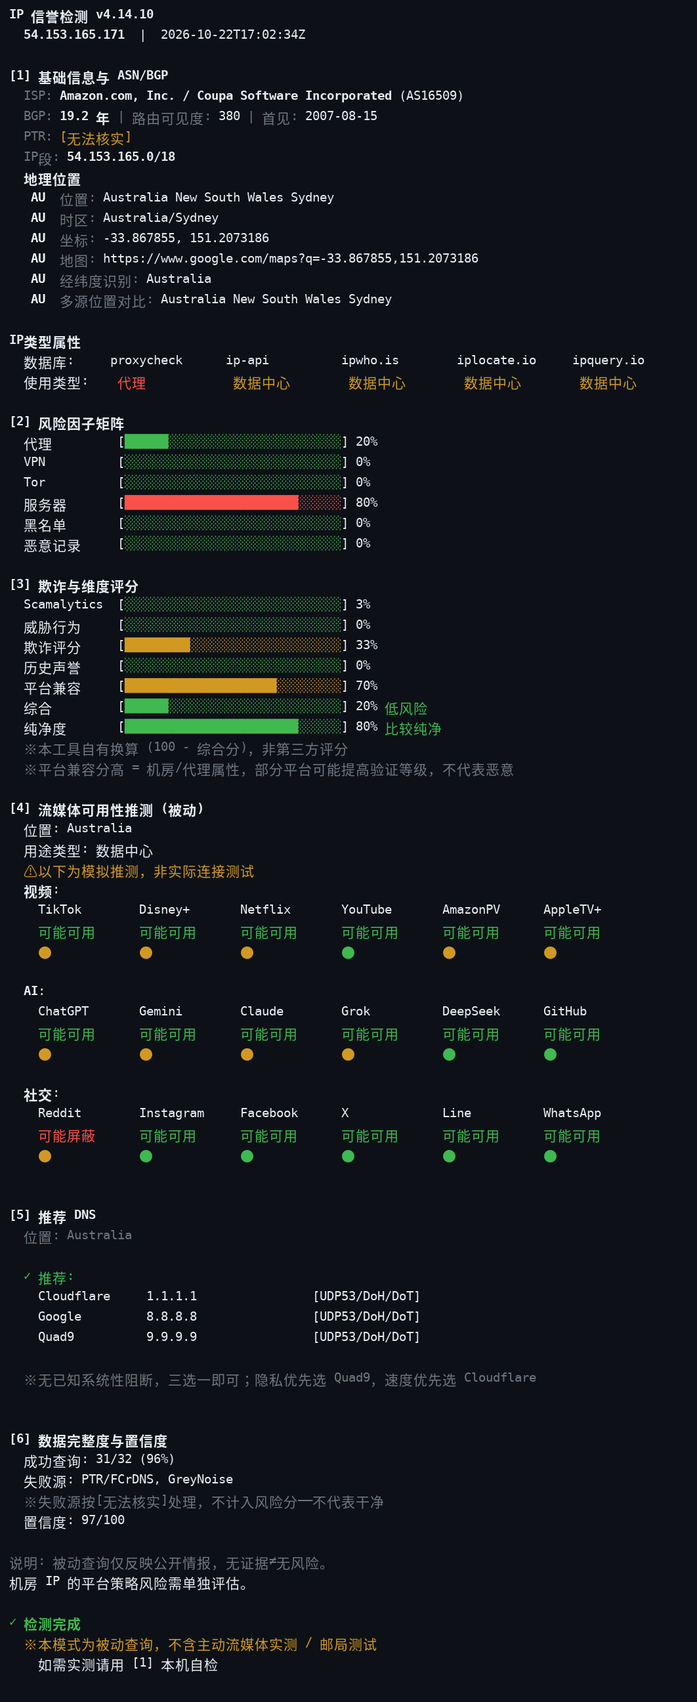
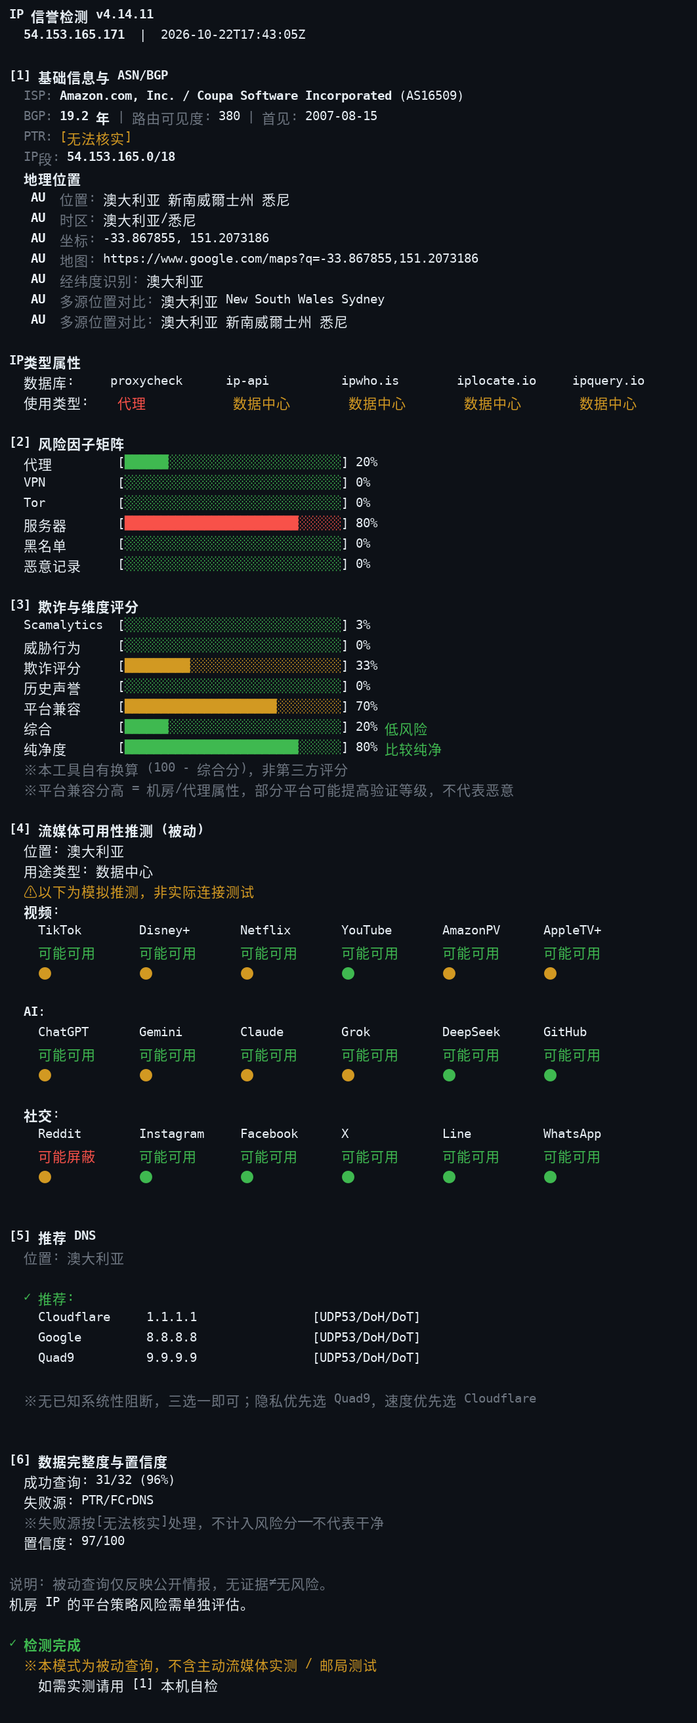
update

diff --git a/acheck.py b/acheck.py
@@ -1,6 +1,6 @@
 #!/usr/bin/env python3
 """
-IP 信誉检测 v4.14.10 — 全量修复与并发优化公开版 (零 API Key 依赖)
+IP 信誉检测 v4.14.11 — 全量修复与并发优化公开版 (零 API Key 依赖)
 
 被动模式: 仅凭 IP 地址做公开情报查询，不发起任何指向该 IP 的主动连接。
   适用: 评估尚未启用的候选 IP (如 AWS EIP)。
@@ -53,7 +53,7 @@ import http.client
 
 # stdio 编码初始化统一在 _init_console() 内进行 (仅主程序运行时), import 本文件不产生副作用。
 
-VERSION = "4.14.10"
+VERSION = "4.14.11"
 
 
 def _init_console():
@@ -2084,13 +2084,95 @@ class PTRCheck(Provider):
         return {"ok": True, "ptr": host, "fcrdns": fcrdns, "ts": now_iso()}
 
 
+
+# ---- 显示层本地化查表 (数据源无语言参数时, 国家名/时区名按界面语言呈现) ----
+_CC_EN = {'united states': 'US', 'united states of america': 'US', 'canada': 'CA', 'germany': 'DE', 'france': 'FR', 'japan': 'JP', 'south korea': 'KR', 'korea': 'KR', 'singapore': 'SG', 'india': 'IN', 'brazil': 'BR', 'russia': 'RU', 'united kingdom': 'GB', 'netherlands': 'NL', 'switzerland': 'CH', 'sweden': 'SE', 'norway': 'NO', 'finland': 'FI', 'denmark': 'DK', 'austria': 'AT', 'belgium': 'BE', 'ireland': 'IE', 'poland': 'PL', 'turkey': 'TR', 'mexico': 'MX', 'argentina': 'AR', 'chile': 'CL', 'colombia': 'CO', 'peru': 'PE', 'egypt': 'EG', 'nigeria': 'NG', 'kenya': 'KE', 'morocco': 'MA', 'israel': 'IL', 'united arab emirates': 'AE', 'saudi arabia': 'SA', 'qatar': 'QA', 'kuwait': 'KW', 'iran': 'IR', 'iraq': 'IQ', 'pakistan': 'PK', 'bangladesh': 'BD', 'thailand': 'TH', 'vietnam': 'VN', 'indonesia': 'ID', 'malaysia': 'MY', 'philippines': 'PH', 'taiwan': 'TW', 'hong kong': 'HK', 'china': 'CN', 'australia': 'AU', 'new zealand': 'NZ', 'south africa': 'ZA', 'greece': 'GR', 'portugal': 'PT', 'czechia': 'CZ', 'hungary': 'HU', 'romania': 'RO', 'ukraine': 'UA', 'italy': 'IT', 'spain': 'ES'}
+_COUNTRY_NAMES = {'zh': {'US': '美国', 'CA': '加拿大', 'DE': '德国', 'FR': '法国', 'JP': '日本', 'KR': '韩国', 'SG': '新加坡', 'IN': '印度', 'BR': '巴西', 'RU': '俄罗斯', 'GB': '英国', 'NL': '荷兰', 'CH': '瑞士', 'SE': '瑞典', 'NO': '挪威', 'FI': '芬兰', 'DK': '丹麦', 'AT': '奥地利', 'BE': '比利时', 'IE': '爱尔兰', 'PL': '波兰', 'TR': '土耳其', 'MX': '墨西哥', 'AR': '阿根廷', 'CL': '智利', 'CO': '哥伦比亚', 'PE': '秘鲁', 'EG': '埃及', 'NG': '尼日利亚', 'KE': '肯尼亚', 'MA': '摩洛哥', 'IL': '以色列', 'AE': '阿联酋', 'SA': '沙特阿拉伯', 'QA': '卡塔尔', 'KW': '科威特', 'IR': '伊朗', 'IQ': '伊拉克', 'PK': '巴基斯坦', 'BD': '孟加拉国', 'TH': '泰国', 'VN': '越南', 'ID': '印度尼西亚', 'MY': '马来西亚', 'PH': '菲律宾', 'TW': '台湾', 'HK': '香港', 'CN': '中国', 'AU': '澳大利亚', 'NZ': '新西兰', 'ZA': '南非', 'GR': '希腊', 'PT': '葡萄牙', 'CZ': '捷克', 'HU': '匈牙利', 'RO': '罗马尼亚', 'UA': '乌克兰', 'IT': '意大利', 'ES': '西班牙'}, 'zh-TW': {'US': '美國', 'CA': '加拿大', 'DE': '德國', 'FR': '法國', 'JP': '日本', 'KR': '韓國', 'SG': '新加坡', 'IN': '印度', 'BR': '巴西', 'RU': '俄羅斯', 'GB': '英國', 'NL': '荷蘭', 'CH': '瑞士', 'SE': '瑞典', 'NO': '挪威', 'FI': '芬蘭', 'DK': '丹麥', 'AT': '奧地利', 'BE': '比利時', 'IE': '愛爾蘭', 'PL': '波蘭', 'TR': '土耳其', 'MX': '墨西哥', 'AR': '阿根廷', 'CL': '智利', 'CO': '哥倫比亞', 'PE': '秘魯', 'EG': '埃及', 'NG': '奈及利亞', 'KE': '肯亞', 'MA': '摩洛哥', 'IL': '以色列', 'AE': '阿聯酋', 'SA': '沙烏地阿拉伯', 'QA': '卡達', 'KW': '科威特', 'IR': '伊朗', 'IQ': '伊拉克', 'PK': '巴基斯坦', 'BD': '孟加拉國', 'TH': '泰國', 'VN': '越南', 'ID': '印度尼西亞', 'MY': '馬來西亞', 'PH': '菲律賓', 'TW': '台灣', 'HK': '香港', 'CN': '中國', 'AU': '澳大利亞', 'NZ': '紐西蘭', 'ZA': '南非', 'GR': '希臘', 'PT': '葡萄牙', 'CZ': '捷克', 'HU': '匈牙利', 'RO': '羅馬尼亞', 'UA': '烏克蘭', 'IT': '義大利', 'ES': '西班牙'}, 'ja': {'US': 'アメリカ', 'CA': 'カナダ', 'DE': 'ドイツ', 'FR': 'フランス', 'JP': '日本', 'KR': '韓国', 'SG': 'シンガポール', 'IN': 'インド', 'BR': 'ブラジル', 'RU': 'ロシア', 'GB': 'イギリス', 'NL': 'オランダ', 'CH': 'スイス', 'SE': 'スウェーデン', 'NO': 'ノルウェー', 'FI': 'フィンランド', 'DK': 'デンマーク', 'AT': 'オーストリア', 'BE': 'ベルギー', 'IE': 'アイルランド', 'PL': 'ポーランド', 'TR': 'トルコ', 'MX': 'メキシコ', 'AR': 'アルゼンチン', 'CL': 'チリ', 'CO': 'コロンビア', 'PE': 'ペルー', 'EG': 'エジプト', 'NG': 'ナイジェリア', 'KE': 'ケニア', 'MA': 'モロッコ', 'IL': 'イスラエル', 'AE': 'アラブ首長国連邦', 'SA': 'サウジアラビア', 'QA': 'カタール', 'KW': 'クウェート', 'IR': 'イラン', 'IQ': 'イラク', 'PK': 'パキスタン', 'BD': 'バングラデシュ', 'TH': 'タイ', 'VN': 'ベトナム', 'ID': 'インドネシア', 'MY': 'マレーシア', 'PH': 'フィリピン', 'TW': '台湾', 'HK': '香港', 'CN': '中国', 'AU': 'オーストラリア', 'NZ': 'ニュージーランド', 'ZA': '南アフリカ', 'GR': 'ギリシャ', 'PT': 'ポルトガル', 'CZ': 'チェコ', 'HU': 'ハンガリー', 'RO': 'ルーマニア', 'UA': 'ウクライナ', 'IT': 'イタリア', 'ES': 'スペイン'}, 'ru': {'US': 'США', 'CA': 'Канада', 'DE': 'Германия', 'FR': 'Франция', 'JP': 'Япония', 'KR': 'Южная Корея', 'SG': 'Сингапур', 'IN': 'Индия', 'BR': 'Бразилия', 'RU': 'Россия', 'GB': 'Великобритания', 'NL': 'Нидерланды', 'CH': 'Швейцария', 'SE': 'Швеция', 'NO': 'Норвегия', 'FI': 'Финляндия', 'DK': 'Дания', 'AT': 'Австрия', 'BE': 'Бельгия', 'IE': 'Ирландия', 'PL': 'Польша', 'TR': 'Турция', 'MX': 'Мексика', 'AR': 'Аргентина', 'CL': 'Чили', 'CO': 'Колумбия', 'PE': 'Перу', 'EG': 'Египет', 'NG': 'Нигерия', 'KE': 'Кения', 'MA': 'Марокко', 'IL': 'Израиль', 'AE': 'ОАЭ', 'SA': 'Саудовская Аравия', 'QA': 'Катар', 'KW': 'Кувейт', 'IR': 'Иран', 'IQ': 'Ирак', 'PK': 'Пакистан', 'BD': 'Бангладеш', 'TH': 'Таиланд', 'VN': 'Вьетнам', 'ID': 'Индонезия', 'MY': 'Малайзия', 'PH': 'Филиппины', 'TW': 'Тайвань', 'HK': 'Гонконг', 'CN': 'Китай', 'AU': 'Австралия', 'NZ': 'Новая Зеландия', 'ZA': 'ЮАР', 'GR': 'Греция', 'PT': 'Португалия', 'CZ': 'Чехия', 'HU': 'Венгрия', 'RO': 'Румыния', 'UA': 'Украина', 'IT': 'Италия', 'ES': 'Испания'}, 'fa': {'US': 'آمریکا', 'CA': 'کانادا', 'DE': 'آلمان', 'FR': 'فرانسه', 'JP': 'ژاپن', 'KR': 'کره جنوبی', 'SG': 'سنگاپور', 'IN': 'هند', 'BR': 'برزیل', 'RU': 'روسیه', 'GB': 'بریتانیا', 'NL': 'هلند', 'CH': 'سوئیس', 'SE': 'سوئد', 'NO': 'نروژ', 'FI': 'فنلاند', 'DK': 'دانمارک', 'AT': 'اتریش', 'BE': 'بلژیک', 'IE': 'ایرلند', 'PL': 'لهستان', 'TR': 'ترکیه', 'MX': 'مکزیک', 'AR': 'آرژانتین', 'CL': 'شیلی', 'CO': 'کلمبیا', 'PE': 'پرو', 'EG': 'مصر', 'NG': 'نیجریه', 'KE': 'کنیا', 'MA': 'مراکش', 'IL': 'اسرائیل', 'AE': 'امارات', 'SA': 'عربستان سعودی', 'QA': 'قطر', 'KW': 'کویت', 'IR': 'ایران', 'IQ': 'عراق', 'PK': 'پاکستان', 'BD': 'بنگلادش', 'TH': 'تایلند', 'VN': 'ویتنام', 'ID': 'اندونزی', 'MY': 'مالزی', 'PH': 'فیلیپین', 'TW': 'تایوان', 'HK': 'هنگ\u200cکنگ', 'CN': 'چین', 'AU': 'استرالیا', 'NZ': 'نیوزیلند', 'ZA': 'آفریقای جنوبی', 'GR': 'یونان', 'PT': 'پرتغال', 'CZ': 'چک', 'HU': 'مجارستان', 'RO': 'رومانی', 'UA': 'اوکراین', 'IT': 'ایتالیا', 'ES': 'اسپانیا'}}
+_TZ_CONT = {'zh': {'Africa': '非洲', 'America': '美洲', 'Antarctica': '南极洲', 'Asia': '亚洲', 'Atlantic': '大西洋', 'Australia': '澳大利亚', 'Europe': '欧洲', 'Indian': '印度洋', 'Pacific': '太平洋'}, 'zh-TW': {'Africa': '非洲', 'America': '美洲', 'Antarctica': '南極洲', 'Asia': '亞洲', 'Atlantic': '大西洋', 'Australia': '澳大利亞', 'Europe': '歐洲', 'Indian': '印度洋', 'Pacific': '太平洋'}, 'ja': {'Africa': 'アフリカ', 'America': 'アメリカ', 'Antarctica': '南極', 'Asia': 'アジア', 'Atlantic': '大西洋', 'Australia': 'オーストラリア', 'Europe': 'ヨーロッパ', 'Indian': 'インド洋', 'Pacific': '太平洋'}, 'ru': {'Africa': 'Африка', 'America': 'Америка', 'Antarctica': 'Антарктида', 'Asia': 'Азия', 'Atlantic': 'Атлантика', 'Australia': 'Австралия', 'Europe': 'Европа', 'Indian': 'Индийский океан', 'Pacific': 'Тихий океан'}, 'fa': {'Africa': 'آفریقا', 'America': 'آمریکا', 'Antarctica': 'جنوبگان', 'Asia': 'آسیا', 'Atlantic': 'اقیانوس اطلس', 'Australia': 'استرالیا', 'Europe': 'اروپا', 'Indian': 'اقیانوس هند', 'Pacific': 'اقیانوس آرام'}}
+_TZ_CITY = {'zh': {'Cairo': '开罗', 'Johannesburg': '约翰内斯堡', 'Lagos': '拉各斯', 'Anchorage': '安克雷奇', 'Bogota': '波哥大', 'Chicago': '芝加哥', 'Denver': '丹佛', 'Halifax': '哈利法克斯', 'Lima': '利马', 'Los_Angeles': '洛杉矶', 'Mexico_City': '墨西哥城', 'New_York': '纽约', 'Phoenix': '菲尼克斯', 'Santiago': '圣地亚哥', 'Sao_Paulo': '圣保罗', 'St_Johns': '圣约翰斯', 'Toronto': '多伦多', 'Vancouver': '温哥华', 'Winnipeg': '温尼伯', 'Almaty': '阿拉木图', 'Bangkok': '曼谷', 'Colombo': '科伦坡', 'Dhaka': '达卡', 'Dubai': '迪拜', 'Ho_Chi_Minh': '胡志明市', 'Hong_Kong': '香港', 'Jakarta': '雅加达', 'Jerusalem': '耶路撒冷', 'Kabul': '喀布尔', 'Karachi': '卡拉奇', 'Kathmandu': '加德满都', 'Kolkata': '加尔各答', 'Kuala_Lumpur': '吉隆坡', 'Manila': '马尼拉', 'Riyadh': '利雅得', 'Seoul': '首尔', 'Shanghai': '上海', 'Singapore': '新加坡', 'Taipei': '台北', 'Tehran': '德黑兰', 'Tokyo': '东京', 'Reykjavik': '雷克雅未克', 'Adelaide': '阿德莱德', 'Brisbane': '布里斯班', 'Melbourne': '墨尔本', 'Perth': '珀斯', 'Sydney': '悉尼', 'Amsterdam': '阿姆斯特丹', 'Berlin': '柏林', 'Istanbul': '伊斯坦布尔', 'London': '伦敦', 'Madrid': '马德里', 'Moscow': '莫斯科', 'Paris': '巴黎', 'Rome': '罗马', 'Stockholm': '斯德哥尔摩', 'Vienna': '维也纳', 'Warsaw': '华沙', 'Auckland': '奥克兰', 'Chatham': '查塔姆', 'Buenos_Aires': '布宜诺斯艾利斯', 'Ulaanbaatar': '乌兰巴托', 'Honolulu': '檀香山', 'Zurich': '苏黎世', 'Lisbon': '里斯本', 'Dublin': '都柏林', 'Helsinki': '赫尔辛基', 'Oslo': '奥斯陆', 'Copenhagen': '哥本哈根', 'Prague': '布拉格', 'Budapest': '布达佩斯', 'Athens': '雅典', 'Kyiv': '基辅'}, 'zh-TW': {'Cairo': '開羅', 'Johannesburg': '約翰內斯堡', 'Lagos': '拉各斯', 'Anchorage': '安克雷奇', 'Bogota': '波哥大', 'Chicago': '芝加哥', 'Denver': '丹佛', 'Halifax': '哈利法克斯', 'Lima': '利馬', 'Los_Angeles': '洛杉磯', 'Mexico_City': '墨西哥城', 'New_York': '紐約', 'Phoenix': '菲尼克斯', 'Santiago': '聖地亞哥', 'Sao_Paulo': '聖保羅', 'St_Johns': '聖約翰斯', 'Toronto': '多倫多', 'Vancouver': '溫哥華', 'Winnipeg': '溫尼伯', 'Almaty': '阿拉木圖', 'Bangkok': '曼谷', 'Colombo': '科倫坡', 'Dhaka': '達卡', 'Dubai': '杜拜', 'Ho_Chi_Minh': '胡志明市', 'Hong_Kong': '香港', 'Jakarta': '雅加達', 'Jerusalem': '耶路撒冷', 'Kabul': '喀布爾', 'Karachi': '卡拉奇', 'Kathmandu': '加德滿都', 'Kolkata': '加爾各答', 'Kuala_Lumpur': '吉隆坡', 'Manila': '馬尼拉', 'Riyadh': '利雅得', 'Seoul': '首爾', 'Shanghai': '上海', 'Singapore': '新加坡', 'Taipei': '台北', 'Tehran': '德黑蘭', 'Tokyo': '東京', 'Reykjavik': '雷克雅未克', 'Adelaide': '阿德萊德', 'Brisbane': '布里斯班', 'Melbourne': '墨爾本', 'Perth': '珀斯', 'Sydney': '悉尼', 'Amsterdam': '阿姆斯特丹', 'Berlin': '柏林', 'Istanbul': '伊斯坦布爾', 'London': '倫敦', 'Madrid': '馬德里', 'Moscow': '莫斯科', 'Paris': '巴黎', 'Rome': '羅馬', 'Stockholm': '斯德哥爾摩', 'Vienna': '維也納', 'Warsaw': '華沙', 'Auckland': '奧克蘭', 'Chatham': '查塔姆', 'Buenos_Aires': '布宜諾斯艾利斯', 'Ulaanbaatar': '烏蘭巴托', 'Honolulu': '檀香山', 'Zurich': '蘇黎世', 'Lisbon': '里斯本', 'Dublin': '都柏林', 'Helsinki': '赫爾辛基', 'Oslo': '奧斯陸', 'Copenhagen': '哥本哈根', 'Prague': '布拉格', 'Budapest': '布達佩斯', 'Athens': '雅典', 'Kyiv': '基輔'}, 'ja': {'Cairo': 'カイロ', 'Johannesburg': 'ヨハネスブルグ', 'Lagos': 'ラゴス', 'Anchorage': 'アンカレッジ', 'Bogota': 'ボゴタ', 'Chicago': 'シカゴ', 'Denver': 'デンバー', 'Halifax': 'ハリファックス', 'Lima': 'リマ', 'Los_Angeles': 'ロサンゼルス', 'Mexico_City': 'メキシコシティ', 'New_York': 'ニューヨーク', 'Phoenix': 'フェニックス', 'Santiago': 'サンティアゴ', 'Sao_Paulo': 'サンパウロ', 'St_Johns': 'セントジョンズ', 'Toronto': 'トロント', 'Vancouver': 'バンクーバー', 'Winnipeg': 'ウィニペグ', 'Almaty': 'アルマトイ', 'Bangkok': 'バンコク', 'Colombo': 'コロンボ', 'Dhaka': 'ダッカ', 'Dubai': 'ドバイ', 'Ho_Chi_Minh': 'ホーチミン', 'Hong_Kong': '香港', 'Jakarta': 'ジャカルタ', 'Jerusalem': 'エルサレム', 'Kabul': 'カブール', 'Karachi': 'カラチ', 'Kathmandu': 'カトマンズ', 'Kolkata': 'コルカタ', 'Kuala_Lumpur': 'クアラルンプール', 'Manila': 'マニラ', 'Riyadh': 'リヤド', 'Seoul': 'ソウル', 'Shanghai': '上海', 'Singapore': 'シンガポール', 'Taipei': '台北', 'Tehran': 'テヘラン', 'Tokyo': '東京', 'Reykjavik': 'レイキャビク', 'Adelaide': 'アデレード', 'Brisbane': 'ブリスベン', 'Melbourne': 'メルボルン', 'Perth': 'パース', 'Sydney': 'シドニー', 'Amsterdam': 'アムステルダム', 'Berlin': 'ベルリン', 'Istanbul': 'イスタンブール', 'London': 'ロンドン', 'Madrid': 'マドリード', 'Moscow': 'モスクワ', 'Paris': 'パリ', 'Rome': 'ローマ', 'Stockholm': 'ストックホルム', 'Vienna': 'ウィーン', 'Warsaw': 'ワルシャワ', 'Auckland': 'オークランド', 'Chatham': 'チャタム', 'Buenos_Aires': 'ブエノスアイレス', 'Ulaanbaatar': 'ウランバートル', 'Honolulu': 'ホノルル', 'Zurich': 'チューリッヒ', 'Lisbon': 'リスボン', 'Dublin': 'ダブリン', 'Helsinki': 'ヘルシンキ', 'Oslo': 'オスロ', 'Copenhagen': 'コペンハーゲン', 'Prague': 'プラハ', 'Budapest': 'ブダペスト', 'Athens': 'アテネ', 'Kyiv': 'キーウ'}, 'ru': {'Cairo': 'Каир', 'Johannesburg': 'Йоханнесбург', 'Lagos': 'Лагос', 'Anchorage': 'Анкоридж', 'Bogota': 'Богота', 'Chicago': 'Чикаго', 'Denver': 'Денвер', 'Halifax': 'Галифакс', 'Lima': 'Лима', 'Los_Angeles': 'Лос-Анджелес', 'Mexico_City': 'Мехико', 'New_York': 'Нью-Йорк', 'Phoenix': 'Финикс', 'Santiago': 'Сантьяго', 'Sao_Paulo': 'Сан-Паулу', 'St_Johns': 'Сент-Джонс', 'Toronto': 'Торонто', 'Vancouver': 'Ванкувер', 'Winnipeg': 'Виннипег', 'Almaty': 'Алматы', 'Bangkok': 'Бангкок', 'Colombo': 'Коломбо', 'Dhaka': 'Дакка', 'Dubai': 'Дубай', 'Ho_Chi_Minh': 'Хошимин', 'Hong_Kong': 'Гонконг', 'Jakarta': 'Джакарта', 'Jerusalem': 'Иерусалим', 'Kabul': 'Кабул', 'Karachi': 'Карачи', 'Kathmandu': 'Катманду', 'Kolkata': 'Калькутта', 'Kuala_Lumpur': 'Куала-Лумпур', 'Manila': 'Манила', 'Riyadh': 'Эр-Рияд', 'Seoul': 'Сеул', 'Shanghai': 'Шанхай', 'Singapore': 'Сингапур', 'Taipei': 'Тайбэй', 'Tehran': 'Тегеран', 'Tokyo': 'Токио', 'Reykjavik': 'Рейкьявик', 'Adelaide': 'Аделаида', 'Brisbane': 'Брисбен', 'Melbourne': 'Мельбурн', 'Perth': 'Перт', 'Sydney': 'Сидней', 'Amsterdam': 'Амстердам', 'Berlin': 'Берлин', 'Istanbul': 'Стамбул', 'London': 'Лондон', 'Madrid': 'Мадрид', 'Moscow': 'Москва', 'Paris': 'Париж', 'Rome': 'Рим', 'Stockholm': 'Стокгольм', 'Vienna': 'Вена', 'Warsaw': 'Варшава', 'Auckland': 'Окленд', 'Chatham': 'Чатем', 'Buenos_Aires': 'Буэнос-Айрес', 'Ulaanbaatar': 'Улан-Батор', 'Honolulu': 'Гонолулу', 'Zurich': 'Цюрих', 'Lisbon': 'Лиссабон', 'Dublin': 'Дублин', 'Helsinki': 'Хельсинки', 'Oslo': 'Осло', 'Copenhagen': 'Копенгаген', 'Prague': 'Прага', 'Budapest': 'Будапешт', 'Athens': 'Афины', 'Kyiv': 'Киев'}, 'fa': {'Cairo': 'قاهره', 'Johannesburg': 'ژوهانسبورگ', 'Lagos': 'لاگوس', 'Anchorage': 'انکوریج', 'Bogota': 'بوگوتا', 'Chicago': 'شیکاگو', 'Denver': 'دنور', 'Halifax': 'هالیفاکس', 'Lima': 'لیما', 'Los_Angeles': 'لس\u200cآنجلس', 'Mexico_City': 'مکزیکوسیتی', 'New_York': 'نیویورک', 'Phoenix': 'فینیکس', 'Santiago': 'سانتیاگو', 'Sao_Paulo': 'سائوپائولو', 'St_Johns': 'سنت جانز', 'Toronto': 'تورنتو', 'Vancouver': 'ونکوور', 'Winnipeg': 'وینیپگ', 'Almaty': 'آلماتی', 'Bangkok': 'بانکوک', 'Colombo': 'کلمبو', 'Dhaka': 'داکا', 'Dubai': 'دبی', 'Ho_Chi_Minh': 'هوشی\u200cمین', 'Hong_Kong': 'هنگ\u200cکنگ', 'Jakarta': 'جاکارتا', 'Jerusalem': 'اورشلیم', 'Kabul': 'کابل', 'Karachi': 'کراچی', 'Kathmandu': 'کاتماندو', 'Kolkata': 'کلکته', 'Kuala_Lumpur': 'کوالالامپور', 'Manila': 'مانیل', 'Riyadh': 'ریاض', 'Seoul': 'سئول', 'Shanghai': 'شانگهای', 'Singapore': 'سنگاپور', 'Taipei': 'تایپه', 'Tehran': 'تهران', 'Tokyo': 'توکیو', 'Reykjavik': 'ریکیاویک', 'Adelaide': 'آدلاید', 'Brisbane': 'بریزبن', 'Melbourne': 'ملبورن', 'Perth': 'پرت', 'Sydney': 'سیدنی', 'Amsterdam': 'آمستردام', 'Berlin': 'برلین', 'Istanbul': 'استانبول', 'London': 'لندن', 'Madrid': 'مادرید', 'Moscow': 'مسکو', 'Paris': 'پاریس', 'Rome': 'رم', 'Stockholm': 'استکهلم', 'Vienna': 'وین', 'Warsaw': 'ورشو', 'Auckland': 'اوکلند', 'Chatham': 'چتم', 'Buenos_Aires': 'بوئنوس آیرس', 'Ulaanbaatar': 'اولان\u200cباتور', 'Honolulu': 'هونولولو', 'Zurich': 'زوریخ', 'Lisbon': 'لیسبون', 'Dublin': 'دوبلین', 'Helsinki': 'هلسینکی', 'Oslo': 'اسلو', 'Copenhagen': 'کپنهاگ', 'Prague': 'پراگ', 'Budapest': 'بوداپست', 'Athens': 'آتن', 'Kyiv': 'کی\u200cیف'}}
+_UTC_NAMES = {"zh": "协调世界时", "zh-TW": "協調世界時", "ja": "協定世界時",
+              "ru": "Всемирное время (UTC)", "fa": "ساعت هماهنگ جهانی"}
+
+
+_ZH_NAME2CODE = {v: k for k, v in _COUNTRY_NAMES["zh"].items()}
+
+
+def _loc_country_name(text):
+    """国家名/代码 -> 界面语言国家名 (en 界面或查不到时原样)。"""
+    if LANG == "en" or not text:
+        return text
+    t = str(text).strip()
+    if LANG == "zh-TW" and t in _ZH_NAME2CODE:
+        return _COUNTRY_NAMES["zh-TW"][_ZH_NAME2CODE[t]]
+    code = None
+    if len(t) == 2 and t.isalpha():
+        code = t.upper()
+    else:
+        code = _CC_EN.get(t.lower())
+    if code == "UK":
+        code = "GB"
+    if code:
+        return _COUNTRY_NAMES.get(LANG, {}).get(code, text)
+    return text
+
+
+def _loc_display(disp):
+    """多源对比行: 把开头的国家 (代码或英文名) 换成本地化国家名, 其余原样。"""
+    if LANG == "en" or not disp:
+        return disp
+    m = re.match(r"^([A-Z]{2})\s+(.*)$", disp)
+    if m:
+        code = "GB" if m.group(1) == "UK" else m.group(1)
+        loc = _COUNTRY_NAMES.get(LANG, {}).get(code)
+        if loc:
+            return f"{loc} {m.group(2)}"
+    if LANG == "zh-TW":
+        for zh_name, code in sorted(_ZH_NAME2CODE.items(), key=lambda kv: -len(kv[0])):
+            if disp.startswith(zh_name):
+                return _COUNTRY_NAMES["zh-TW"][code] + disp[len(zh_name):]
+    low = disp.lower()
+    for name, code in sorted(_CC_EN.items(), key=lambda kv: -len(kv[0])):
+        if low.startswith(name + " ") or low == name:
+            loc = _COUNTRY_NAMES.get(LANG, {}).get(code)
+            if loc:
+                return loc + disp[len(name):]
+    return disp
+
+
+def _loc_tz(tz):
+    """IANA 时区名 -> 界面语言 (洲/城查表; 未收录时原样)。"""
+    if LANG == "en" or not tz:
+        return tz
+    if tz == "UTC":
+        return _UTC_NAMES.get(LANG, tz)
+    parts = str(tz).split("/")
+    cont = _TZ_CONT.get(LANG, {}).get(parts[0])
+    city = _TZ_CITY.get(LANG, {}).get(parts[-1])
+    if cont and city:
+        return f"{cont}/{city}"
+    return tz
+
+
+def _ipwho_lang():
+    """ipwho.is 本地化参数: 其数据源无 zh-TW/fa, zh-TW 回退 zh-CN, fa 不传 (英文)。"""
+    return {"zh": "zh-CN", "zh-TW": "zh-CN", "ja": "ja", "ru": "ru"}.get(LANG)
+
+
+def _nominatim_lang():
+    """Nominatim accept-language (支持全部界面语言)。"""
+    return {"zh": "zh-CN", "zh-TW": "zh-TW", "ja": "ja", "ru": "ru",
+            "fa": "fa", "en": "en"}.get(LANG, "en")
+
+
 @register
 class IPWhoIs(Provider):
     key = "ipwhois"
     name = "ipwho.is"
 
     def check(self, ip):
-        ok, raw = http_get(f"https://ipwho.is/{ip}", use_cache=False)
+        _l = _ipwho_lang()
+        ok, raw = http_get(f"https://ipwho.is/{ip}" + (f"?lang={_l}" if _l else ""),
+                           use_cache=False)
         if not ok:
             return {"ok": False, "err": raw}
         try:
@@ -2137,7 +2219,7 @@ class IPInfo(Provider):
 
     def check(self, ip):
         ok, raw = http_get(f"https://ipinfo.io/{ip}/json",
-                           headers={"User-Agent": "A-Check/4.14.10 (+https://github.com/alariclin/A-Check)"},
+                           headers={"User-Agent": "A-Check/4.14.11 (+https://github.com/alariclin/A-Check)"},
                            use_cache=False)
         if not ok:
             return {"ok": False, "err": raw}
@@ -3002,7 +3084,7 @@ def _build_unified_profile(s):
 
 SCORING_RULES = {
     "zh": """
-评分规则 (v4.14.10 免 Key 公开版):
+评分规则 (v4.14.11 免 Key 公开版):
   [威胁行为 0-100] 实际恶意行为证据
     StopForumSpam 垃圾举报命中 (每次+3, 上限25)
     SANS ISC 蜜罐攻击记录 (5 + count//5, 上限25)
@@ -3034,7 +3116,7 @@ SCORING_RULES = {
     主动模式双栈对照: IPv6 出口/泄漏判定/流媒体与测速分栈实测
 """,
     "zh-TW": """
-評分規則 (v4.14.10 免 Key 公開版):
+評分規則 (v4.14.11 免 Key 公開版):
   [威脅行為 0-100] 實際惡意行為證據
     StopForumSpam 垃圾舉報命中 (每次+3, 上限25)
     SANS ISC 蜜罐攻擊記錄 (5 + count//5, 上限25)
@@ -3066,7 +3148,7 @@ SCORING_RULES = {
     主動模式雙棧對照: IPv6 出口/洩漏判定/串流與測速分棧實測
 """,
     "en": """
-Scoring rules (v4.14.10 Keyless Public Edition):
+Scoring rules (v4.14.11 Keyless Public Edition):
   [Threat 0-100] Evidence of malicious behavior
     StopForumSpam abuse hits (+3 each, max 25)
     SANS ISC honeypot attacks (5 + count//5, max 25)
@@ -3099,7 +3181,7 @@ Scoring rules (v4.14.10 Keyless Public Edition):
     Active mode is dual-stack: IPv6 egress/leak check, per-stack streaming & speed
 """,
     "ja": """
-スコアリングルール (v4.14.10 キー不要公開版):
+スコアリングルール (v4.14.11 キー不要公開版):
   [脅威行為 0-100] 悪意ある活動の証拠
     StopForumSpam スパム報告 (+3/件, 最大25)
     SANS ISC ハニーポット攻撃記録 (5 + count//5, 最大25)
@@ -3131,7 +3213,7 @@ Scoring rules (v4.14.10 Keyless Public Edition):
     アクティブモードはデュアルスタック: IPv6出口/リーク判定/ストリーミングと速度をスタック別に実測
 """,
     "ru": """
-Правила оценки (v4.14.10 Публичная версия без ключей):
+Правила оценки (v4.14.11 Публичная версия без ключей):
   [Угрозы 0-100] Доказательства вредоносной активности
     StopForumSpam жалобы (+3 за каждую, макс. 25)
     SANS ISC атаки (5 + count//5, макс. 25)
@@ -3163,7 +3245,7 @@ Scoring rules (v4.14.10 Keyless Public Edition):
     Активный режим — двойной стек: выход IPv6/проверка утечки, стриминг и скорость по стекам
 """,
     "fa": """
-قوانین امتیازدهی (نسخه عمومی بدون کلید v4.14.10):
+قوانین امتیازدهی (نسخه عمومی بدون کلید v4.14.11):
   [رفتار تهدید 0-100] شواهد فعالیت مخرب
     StopForumSpam گزارش اسپم (+3 هر مورد، حداکثر 25)
     SANS ISC حملات ثبتشده (5 + count//5، حداکثر 25)
@@ -3488,7 +3570,7 @@ def run_passive(ip):
     if _prof.get("latitude") is not None and _prof.get("longitude") is not None:
         try:
             _u = ("https://nominatim.openstreetmap.org/reverse?lat=%s&lon=%s"
-                  "&format=json&zoom=3" % (_prof["latitude"], _prof["longitude"]))
+                  "&format=json&zoom=3&accept-language=%s" % (_prof["latitude"], _prof["longitude"], _nominatim_lang()))
             _rq = urllib.request.Request(
                 _u, headers={"User-Agent": "A-Check (IP lookup tool)"})
             with urllib.request.urlopen(_rq, timeout=4) as _rp:
@@ -3496,7 +3578,7 @@ def run_passive(ip):
                          .get("address") or {})
             if _addr.get("country"):
                 sources["coordgeo"] = {
-                    "ok": True, "country": _addr.get("country"),
+                    "ok": True, "country": (_addr.get("country") or "").replace(";", "；").split("；")[0].strip(),
                     "cc": (_addr.get("country_code") or "").upper()}
         except Exception:
             pass
@@ -3628,7 +3710,7 @@ def _print_streaming_inference(res):
     sf = s.get("stopforumspam", {})
     has_abuse = (sf.get("ok") and sf.get("frequency", 0) > 0)
 
-    print(f"  {T('location')}: {country or '?'}")
+    print(f"  {T('location')}: {_loc_country_name(country) or '?'}")
     if is_proxy or is_vpn:
         ip_type_lbl = f"{T('proxy')}/{T('vpn')}"
     elif is_tor:
@@ -3998,8 +4080,18 @@ def _print_basic_block(s, prof):
                "romania": "ro", "ukraine": "ua", "italy": "it",
                "spain": "es"}
 
+        _ANY2CODE = {}
+        for _lg in _COUNTRY_NAMES.values():
+            for _cd, _nm in _lg.items():
+                _ANY2CODE[_nm] = _cd
+                _ANY2CODE[_nm.lower()] = _cd
+
         def _norm(txt):
+            if txt and str(txt).strip() in _ANY2CODE:
+                return _ANY2CODE[str(txt).strip()].lower()
             txt = (txt or "").lower().strip()
+            if txt in _ANY2CODE:
+                return _ANY2CODE[txt].lower()
             if txt in _CC:
                 return _CC[txt]
             txt = re.sub(r"\b(?:sheng|province|city|shi)\b", " ", txt)
@@ -4029,14 +4121,14 @@ def _print_basic_block(s, prof):
         _cc = (cc or "").strip().upper()
         if _cc == "UK":
             _cc = "GB"
-        if not (len(_cc) == 2 and _cc.isalpha()):
+        if not (len(_cc) == 2 and _cc.isalpha() and _cc.isascii()):
             return "     "
         _badge = f"\x1b[44m\x1b[97m\x1b[1m {_cc} \x1b[0m" if _use_color() else f"[{_cc}]"
         return f"{_badge} "
 
     _loc_str = ""
     if prof.get("ok"):
-        _loc_str = f"{prof.get('country', '')} {prof.get('region', '')} {prof.get('city', '')}".strip()
+        _loc_str = f"{_loc_country_name(prof.get('country', ''))} {prof.get('region', '')} {prof.get('city', '')}".strip()
     _has_geo = bool(_loc_str or locs or _cg.get("ok") or prof.get("timezone")
                     or prof.get("latitude") is not None)
     if _has_geo:
@@ -4044,7 +4136,7 @@ def _print_basic_block(s, prof):
         if _loc_str:
             print(f"  {_fl(_pcc)}{_c(C.dim, T('location') + ':')} {_loc_str}")
         if prof.get("timezone"):
-            print(f"  {_fl(_pcc)}{_c(C.dim, T('timezone') + ':')} {prof['timezone']}")
+            print(f"  {_fl(_pcc)}{_c(C.dim, T('timezone') + ':')} {_loc_tz(prof['timezone'])}")
         if prof.get("latitude") is not None and prof.get("longitude") is not None:
             _cf = _fl(_cg.get("cc") if _cg.get("ok") else _pcc)
             print(f"  {_cf}{_c(C.dim, T('coords') + ':')} {prof['latitude']}, {prof['longitude']}")
@@ -4055,8 +4147,8 @@ def _print_basic_block(s, prof):
             _lbl = T("sec_loc")
             for k in _order:
                 _loc, _names = _groups[k]
-                _gf = _fl(k[0] if len(k[0]) == 2 and k[0].isalpha() else "")
-                print(f"  {_gf}{_c(C.dim, _lbl + ':')} {_loc}")
+                _gf = _fl(k[0] if len(k[0]) == 2 and k[0].isalpha() and k[0].isascii() else "")
+                print(f"  {_gf}{_c(C.dim, _lbl + ':')} {_loc_display(_loc)}")
         else:
             print(f"  {T('no_loc_data')}")
     elif not locs:
@@ -4381,7 +4473,7 @@ def run_passive6(ip):
     if _prof.get("latitude") is not None and _prof.get("longitude") is not None:
         try:
             _u = ("https://nominatim.openstreetmap.org/reverse?lat=%s&lon=%s"
-                  "&format=json&zoom=3" % (_prof["latitude"], _prof["longitude"]))
+                  "&format=json&zoom=3&accept-language=%s" % (_prof["latitude"], _prof["longitude"], _nominatim_lang()))
             _rq = urllib.request.Request(
                 _u, headers={"User-Agent": "A-Check (IP lookup tool)"})
             with urllib.request.urlopen(_rq, timeout=4) as _rp:
@@ -4389,7 +4481,7 @@ def run_passive6(ip):
                          .get("address") or {})
             if _addr.get("country"):
                 sources["coordgeo"] = {
-                    "ok": True, "country": _addr.get("country"),
+                    "ok": True, "country": (_addr.get("country") or "").replace(";", "；").split("；")[0].strip(),
                     "cc": (_addr.get("country_code") or "").upper()}
         except Exception:
             pass
@@ -4644,7 +4736,7 @@ def get_egress_ip():
     ]
     for url in sources:
         try:
-            _ua = {"User-Agent": "A-Check/4.14.10 (+https://github.com/alariclin/A-Check)"} if "ipinfo.io" in url else {"User-Agent": UA_BROWSER}
+            _ua = {"User-Agent": "A-Check/4.14.11 (+https://github.com/alariclin/A-Check)"} if "ipinfo.io" in url else {"User-Agent": UA_BROWSER}
             req = urllib.request.Request(url, headers=_ua)
             with urllib.request.urlopen(req, timeout=6) as r:
                 raw = r.read(512).decode("utf-8", errors="replace").strip()
@@ -5776,7 +5868,7 @@ def recommend_dns_for_ip(country):
     key = _country_key(country)
     db = DNS_COUNTRY_DB[key]
     _section(T("sec_dns_rec"))
-    print(f"  {_c(C.dim, T('location') + ': ' + (country or '?'))}")
+    print(f"  {_c(C.dim, T('location') + ': ' + (_loc_country_name(country) or '?'))}")
     print(f"\n  {_c(C.green, '✓ 推荐:' if LANG in ('zh', 'zh-TW') else '✓ Recommended:')}")
     for name, ip, proto in db["rec"]:
         print(f"    {name:14} {ip:22} [{proto}]")
@@ -6314,9 +6406,9 @@ def run_active(json_mode=False, stack=None):
         try:
             if sys.stdin.isatty():
                 print(f"\n  {T('stack_title')}:")
-                print(f"    1) {T('stack_auto')}")
-                print(f"    2) {T('stack_v4')}")
-                print(f"    3) {T('stack_v6')}")
+                print(f"    1. {T('stack_auto')}")
+                print(f"    2. {T('stack_v4')}")
+                print(f"    3. {T('stack_v6')}")
                 _sel = input(f"  {T('stack_prompt')}").strip()
                 stack = {"1": "auto", "2": "4", "3": "6"}.get(_sel, "auto")
         except Exception:
@@ -7245,7 +7337,7 @@ def _banner_net_info():
             except Exception:
                 try:
                     req = urllib.request.Request(
-                        "https://ipwho.is/%s" % egress,
+                        (("https://ipwho.is/%s?lang=%s" % (egress, _ipwho_lang())) if _ipwho_lang() else ("https://ipwho.is/%s" % egress)),
                         headers={"User-Agent": UA_BROWSER})
                     with urllib.request.urlopen(req, timeout=5) as r:
                         d = json.loads(r.read(8192).decode("utf-8",

diff --git a/README.en.md b/README.en.md
@@ -3,7 +3,7 @@
   <h1>A-Check</h1>
   <p><b>IP reputation & network quality checker</b> — multi-source aggregation · dual mode · single file, zero dependencies</p>
   <p>
-    <img src="https://img.shields.io/badge/version-v4.14.10-blue" alt="version">
+    <img src="https://img.shields.io/badge/version-v4.14.11-blue" alt="version">
     <img src="https://img.shields.io/badge/python-3.8+-green" alt="python">
     <img src="https://img.shields.io/badge/license-MIT-lightgrey" alt="license">
     <img src="https://img.shields.io/badge/platform-macOS%20%7C%20Windows%20%7C%20Linux-orange" alt="platform">
@@ -97,17 +97,17 @@ Download the package for your system from [Releases](https://github.com/alaricli
 
 macOS:
 ```
-curl -sL https://github.com/alariclin/A-Check/releases/download/v4.14.10/A-Check-v4.14.10-mac-app.zip -o acheck-app.zip && unzip -qo acheck-app.zip && open A-Check.app
+curl -sL https://github.com/alariclin/A-Check/releases/download/v4.14.11/A-Check-v4.14.11-mac-app.zip -o acheck-app.zip && unzip -qo acheck-app.zip && open A-Check.app
 ```
 
 Linux / VPS:
 ```
-curl -sL https://github.com/alariclin/A-Check/releases/download/v4.14.10/A-Check-v4.14.10-linux.zip -o acheck.zip && unzip -qo acheck.zip && cd acheck-linux && bash run.sh
+curl -sL https://github.com/alariclin/A-Check/releases/download/v4.14.11/A-Check-v4.14.11-linux.zip -o acheck.zip && unzip -qo acheck.zip && cd acheck-linux && bash run.sh
 ```
 
 Windows (PowerShell):
 ```
-Invoke-WebRequest https://github.com/alariclin/A-Check/releases/download/v4.14.10/A-Check-v4.14.10-windows.zip -OutFile acheck.zip; Expand-Archive acheck.zip -Force; cd acheck-win; .\run.bat
+Invoke-WebRequest https://github.com/alariclin/A-Check/releases/download/v4.14.11/A-Check-v4.14.11-windows.zip -OutFile acheck.zip; Expand-Archive acheck.zip -Force; cd acheck-win; .\run.bat
 ```
 
 Any system (single file, Python 3.8+):

diff --git a/README.md b/README.md
@@ -3,7 +3,7 @@
   <h1>A-Check</h1>
   <p><b>IP reputation & network quality checker</b> — multi-source aggregation · dual mode · single file, zero dependencies</p>
   <p>
-    <img src="https://img.shields.io/badge/version-v4.14.10-blue" alt="version">
+    <img src="https://img.shields.io/badge/version-v4.14.11-blue" alt="version">
     <img src="https://img.shields.io/badge/python-3.8+-green" alt="python">
     <img src="https://img.shields.io/badge/license-MIT-lightgrey" alt="license">
     <img src="https://img.shields.io/badge/platform-macOS%20%7C%20Windows%20%7C%20Linux-orange" alt="platform">
@@ -97,17 +97,17 @@ Download the package for your system from [Releases](https://github.com/alaricli
 
 macOS:
 ```
-curl -sL https://github.com/alariclin/A-Check/releases/download/v4.14.10/A-Check-v4.14.10-mac-app.zip -o acheck-app.zip && unzip -qo acheck-app.zip && open A-Check.app
+curl -sL https://github.com/alariclin/A-Check/releases/download/v4.14.11/A-Check-v4.14.11-mac-app.zip -o acheck-app.zip && unzip -qo acheck-app.zip && open A-Check.app
 ```
 
 Linux / VPS:
 ```
-curl -sL https://github.com/alariclin/A-Check/releases/download/v4.14.10/A-Check-v4.14.10-linux.zip -o acheck.zip && unzip -qo acheck.zip && cd acheck-linux && bash run.sh
+curl -sL https://github.com/alariclin/A-Check/releases/download/v4.14.11/A-Check-v4.14.11-linux.zip -o acheck.zip && unzip -qo acheck.zip && cd acheck-linux && bash run.sh
 ```
 
 Windows (PowerShell):
 ```
-Invoke-WebRequest https://github.com/alariclin/A-Check/releases/download/v4.14.10/A-Check-v4.14.10-windows.zip -OutFile acheck.zip; Expand-Archive acheck.zip -Force; cd acheck-win; .\run.bat
+Invoke-WebRequest https://github.com/alariclin/A-Check/releases/download/v4.14.11/A-Check-v4.14.11-windows.zip -OutFile acheck.zip; Expand-Archive acheck.zip -Force; cd acheck-win; .\run.bat
 ```
 
 Any system (single file, Python 3.8+):
